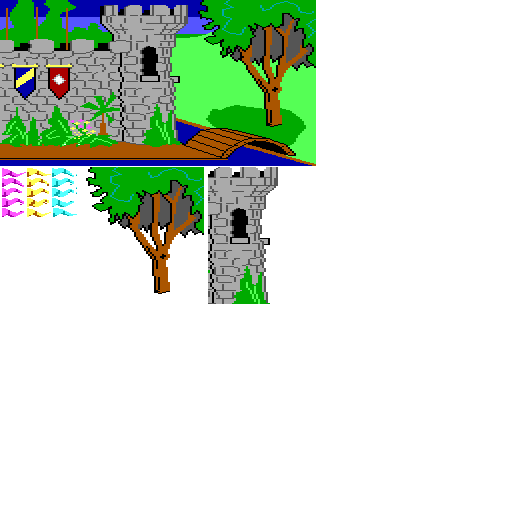
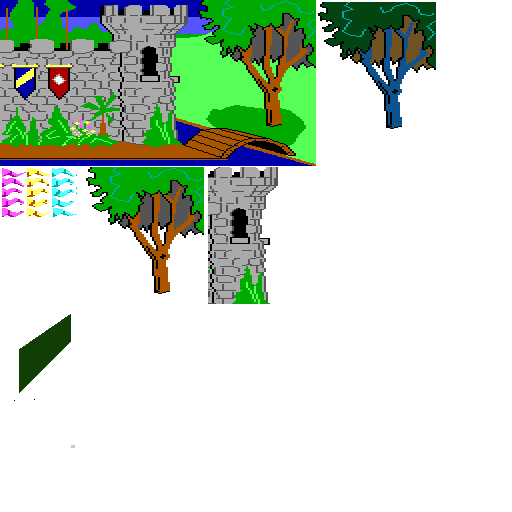
ok

Changed region(s): [[0.625, 0.0, 0.875, 0.25], [0.0312, 0.5938, 0.1562, 0.7812]]

diff --git a/kq_1/src/factory.py b/kq_1/src/factory.py
@@ -2,6 +2,17 @@ import monkey2
 import yaml
 from . import assetman
 from . import state
+from . import scripts
+
+class RoomStart:
+    def __init__(self):
+        self.f = []
+
+    def start(self):
+        print('ficanera')
+        for g in self.f:
+            g()
+
 def readYAML(file):
     with open(file, 'r') as f:
         data = yaml.safe_load(f)
@@ -14,56 +25,135 @@ def init():
 
 def create_room():
     room = monkey2.Room()
-    # get the current room
-    print(f" -- Loading room: {state.room}")
-    assert(state.room in assetman.rooms)
-    ri = assetman.rooms[state.room]
-
-    # add collision engine
-    room.collisionEngine = monkey2.CollisionEngine()
+    state.IDS = {}
+    a = RoomStart()
+    room.setStartUpFunction(a.start)
     # create main camera
     viewport = (2, 25, state.ROOM_WIDTH, state.ROOM_HEIGHT)
     cam = monkey2.CamOrtho(state.ROOM_WIDTH, state.ROOM_HEIGHT, viewport=viewport)
     cam.setPosition([state.ROOM_WIDTH // 2,state.ROOM_HEIGHT // 2,5], [0,0,-1], [0,1,0])
     room.addCamera(cam)
 
-    batch = monkey2.QuadBatch(10000, 0, 512, 512, 16)
-    #batch.addTexture('kq1.png')
+    cam2 = monkey2.CamOrtho(320, 200)
+    cam2.setPosition([160, 100, 5], [0,0,-1], [0,1,0])
+    room.addCamera(cam2)
 
-    room.addBatch(batch)
+    room.collisionEngine = monkey2.CollisionEngine()
 
+
+    # this also creates batch / textures etc.
+    monkey2.loadAsset('main', 'assets.yaml', 0)
+    monkey2.loadAsset('ui', 'assets.yaml', 1)
     room.addBatch(monkey2.LineBatch(1000, 0))
 
-    monkey2.game().makeCurrent(room)
 
     root = room.root()
-    #root.add(assetman.makeSpriteNode('bg', 0, 0, 0, batch, z=-1))
+    # m = monkey2.Node()
+    # m.setModel(monkey2.getModel('main/alligator'))
+    # m.setPosition((128,100,0))
+    # root.add(m)
+    #
+    # player = monkey2.Node()
+    # player.setModel(monkey2.getModel('main/graham'))
+    # player.setPosition((168,100,0))
+    # root.add(player)
+    # a = monkey2.Node()
+    # a.setModel(monkey2.getModel('main/bg1'))
+    # a.setPosition((0,0,-10))
+    # root.add(a)
+    # a = monkey2.Text('main/sierra', 'Alligator.')
+    # a.setPosition((128,50,0))
+    # root.add(a)
+    # get the current room
 
+    print(f" -- Loading room: {state.room}")
+    #assert(state.room in assetman.rooms)
+    ri = assetman.rooms[state.room]
+    #
+    # # add collision engine
+
+
+    #
+    # batch = monkey2.QuadBatch(10000, 0, 512, 512, 16)
+    # #batch.addTexture('kq1.png')
+    #
+    # room.addBatch(batch)
+    #
+    #
+    # monkey2.game().makeCurrent(room)
+    #
+    # root = room.root()
+    # #root.add(assetman.makeSpriteNode('bg', 0, 0, 0, batch, z=-1))
+    #
     # add player
-    player = assetman.makeSpriteNode('graham', 20, 10, 0, batch, dynamicDepth=True)
+    player = monkey2.Node()
+    player.setModel(monkey2.getModel('main/graham'))
+    player.addComponent(monkey2.DepthScale(166, 0))
+    player.setPosition([10,10,0])
     root.add(player)
-
-    #root.add(assetman.makeSpriteNode('alligator', 30, 10, 0, batch, dynamicDepth=True))
-    #root.add(assetman.makeSpriteNode('tree_castle', 198, 39, 0, batch, dynamicDepth=True))
-
+    #
+    # #root.add(assetman.makeSpriteNode('alligator', 30, 10, 0, batch, dynamicDepth=True))
+    # #root.add(assetman.makeSpriteNode('tree_castle', 198, 39, 0, batch, dynamicDepth=True))
     walkarea_node = monkey2.Node()
     main_walkarea = None
+    #player=None
     i = 0
     for w in ri.get('walkareas', []):
-        n = monkey2.adventure.WalkArea(w['poly'], 1, state.WALKAREA_COLORS[i])
+        n = monkey2.adventure.WalkArea(w['poly'], 2, state.WALKAREA_COLORS[i])
         for hole in w.get('holes', []):
             n.addHole(hole)
+        for l in w.get('lines', []):
+            n.addLine(l)
         if main_walkarea is None:
             main_walkarea = n
         walkarea_node.add(n)
+        state.IDS[f'WALKAREA_{i}'] = n.id
         i += 1
     root.add(walkarea_node)
 
+    no = monkey2.Node()
 
+    # #root.add(assetman.makeSpriteNode('prova', 42, 50, 0, batch, dynamicDepth=True, wa=main_walkarea))
+    for item in ri.get('nodes', []):
+        model = item.get('model')
+        pos = item.get('pos', [0,0,0])
+        nodo = monkey2.Node()
+        nodo.setPosition(pos)
+        nodo.setModel(monkey2.getModel(model))
+        if item.get('depth'):
+            nodo.addComponent(monkey2.DepthScale(166, 0))
+        walk = item.get('walk', None)
+        if walk:
+            if 'poly' in walk:
+                shape = monkey2.shapes.Polygon(walk['poly'])
+                main_walkarea.addHole(walk['poly'], nodo)
+            else:
+                shape = monkey2.shapes.Polygon(walk['lines'])
+                main_walkarea.addLine(walk['lines'], nodo)
+            nodo.addComponent(monkey2.Collider(shape))
+
+        script = item.get('script', None)
+        if script:
+            a.f.append(getattr(scripts, script)(nodo))
+
+        root.add(nodo)
+
+    # #     z = item[3] if len(item)>3 else None
+    # #     root.add(assetman.makeSpriteNode(item[0], item[1], item[2], 0, batch, z=z if z else 0,
+    # #                                      dynamicDepth=(z is None), wa=main_walkarea))
+    # #
+
+    cursor = monkey2.Node()
+    cursor.setModel(monkey2.getModel('ui/cursor'))
+    root.add(cursor)
     scheduler = monkey2.Scheduler()
+    state.IDS['SCHEDULER'] = scheduler.id
     root.add(scheduler)
     c=monkey2.adventure.MouseController(0, main_walkarea, player, scheduler, 50)
+    c.setCursor(cursor, ['walk', 'look'])
     root.add(c)
-
+    room.hotSpotManager = c
+    #
+    # #a = monkey2.adventure.Obstacle('start.png', 86, 167, 118, 128)
 
     return room

diff --git a/kq_1/src/assetman.py b/kq_1/src/assetman.py
@@ -4,25 +4,46 @@ sprites = None
 rooms = {}
 
 
-def makeSpriteNode(id: str, x, y, batchId: int, batch, z=0, dynamicDepth=False):
+def makeSpriteNode(id: str, x, y, batchId: int, batch, z=0, dynamicDepth=False,wa=None):
 	m = monkey2.Node()
 	m.setPosition([x, y, z])
 	model = makeSprite(id, batchId, batch)
 	m.setModel(model)
 	if dynamicDepth:
 		m.addComponent(monkey2.DepthScale(166, 0))
+	if 'geometry' in sprites[id]:
+		geom = sprites[id]['geometry']
+		hole = geom.get('hole', 0)
+		depth = geom.get('depth', 0)
+		geoType = 0 if 'lines' in geom else 1
+		points = geom['lines'] if geoType == 0 else geom['poly']
+		if hole == 1:
+			if geoType == 0:
+				wa.addLine(points, m)
+			else:
+				wa.addHole(points, m)
+		if depth == 1:
+			if geoType == 0:
+				shape = monkey2.shapes.PolyLine(points)
+			else:
+				shape = monkey2.shapes.Polygon(points)
+			m.addComponent(monkey2.Collider(shape))
+		print('SUCALAMERDA')
 	return m
 
 
 def makeSprite(id: str, batchId: int, batch):
 	s = sprites[id]
 	texId = batch.addTexture(s['file'])
-	sprite = monkey2.Sprite(s['data'], batchId, texId)
-	df = None
-	for anim, frame in s['animations'].items():
-		if df is None:
-			df = anim
-		for i in range(len(frame)):
-			sprite.add(anim, i, frame[i], 10)
-	sprite.defaultAnimation = df
+	if 'animations' in s:
+		sprite = monkey2.Sprite(s['data'], batchId, texId)
+		df = None
+		for anim, frame in s['animations'].items():
+			if df is None:
+				df = anim
+			for i in range(len(frame)):
+				sprite.add(anim, i, frame[i], 10)
+		sprite.defaultAnimation = df
+	else:
+		sprite = monkey2.Quad(s['data'], batchId, texId)
 	return sprite

diff --git a/kq_1/src/scripts.py b/kq_1/src/scripts.py
@@ -1,0 +1,26 @@
+import monkey2
+from . import state
+import random
+
+def move_alligator(alligator: monkey2.Node):
+	def f():
+		walkarea = state.getNode('WALKAREA_1')
+		sched = state.getNode('SCHEDULER')
+		def alli():
+			x = random.randint(0,316)
+			y = random.randint(0,166)
+			print(f'going to {x},{y}')
+			script = monkey2.Script(f'script_{alligator.id}')
+			script.addAction(monkey2.actions.Walk(alligator, walkarea, (x,y), 50), -1)
+			script.addAction(monkey2.actions.CallFunc(alli), 0)
+			sched.add(script)
+
+
+		script = monkey2.Script()
+		script.setLoop()
+		script.addAction(monkey2.actions.CallFunc(alli), -1)
+		script.addAction(monkey2.actions.Delay(5.0), 0)
+		sched.add(script)
+		print(alligator)
+	return f
+

diff --git a/kq_1/src/state.py b/kq_1/src/state.py
@@ -1,3 +1,13 @@
+import monkey2
+
+
+IDS = {}
+
+scheduler = None
+
+def getNode(s: str):
+	return monkey2.getNode(IDS[s])
+
 
 ROOM_WIDTH = 316
 ROOM_HEIGHT = 166
@@ -5,4 +15,4 @@ WALKAREA_COLORS = [
 	(1,1,1,1),
 	(1,0,0,1)
 ]
-room = 'prova'
+room = 'start'
